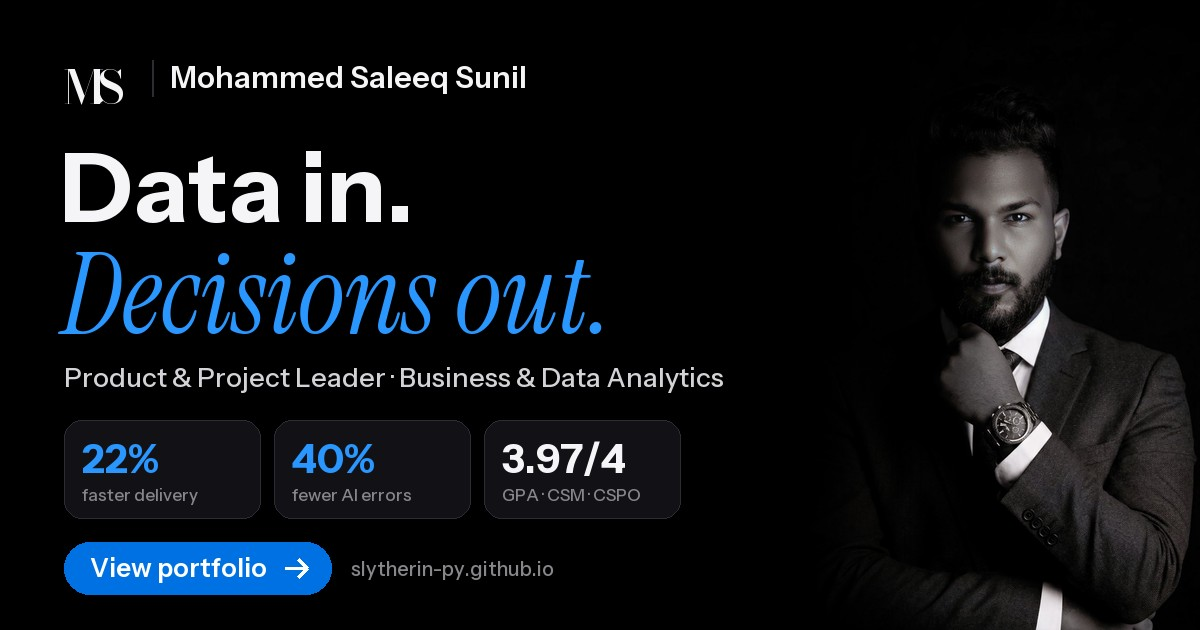
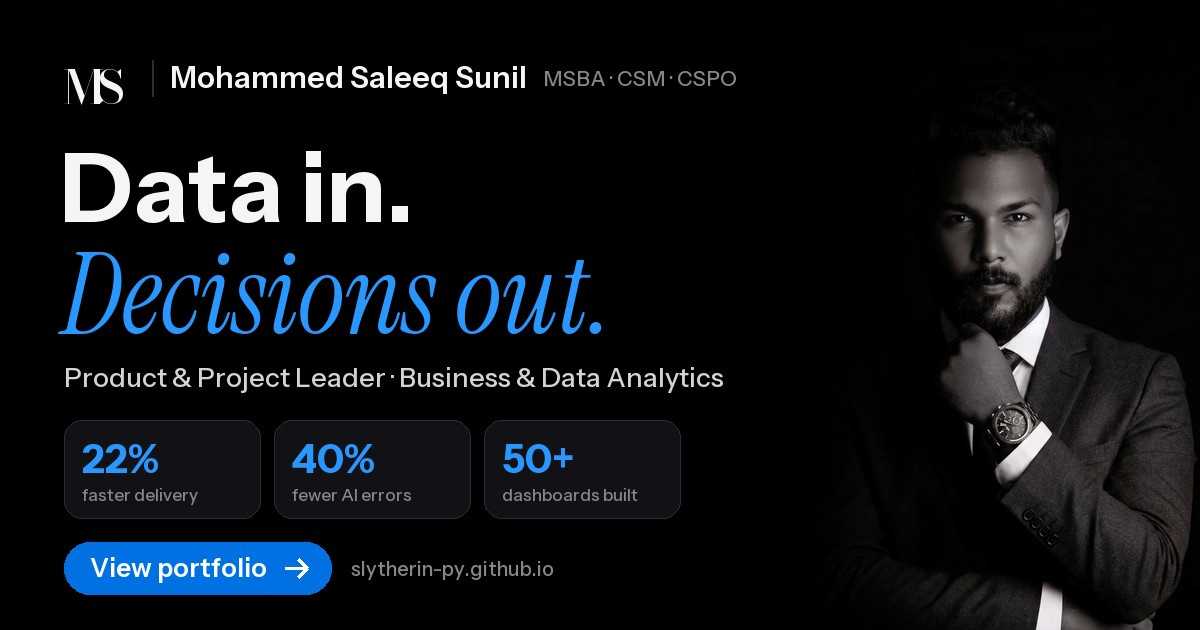
Share card: credentials beside the name, 50+ dashboards as the third figure

Changed region(s): [[0.4008, 0.6937, 0.5242, 0.8143], [0.4625, 0.0905, 0.6167, 0.1508]]

diff --git a/index.html b/index.html
@@ -13,12 +13,12 @@
   <meta property="og:site_name" content="Mohammed Saleeq Sunil">
   <meta property="og:title" content="Mohammed Saleeq Sunil · Product &amp; Project Leader · Business &amp; Data Analytics">
   <meta property="og:description" content="Product and project leader with business and data analytics expertise, turning complex portfolios into clear decisions. Open to Data Analyst, Senior BA, Product Owner and PM roles.">
-  <meta property="og:image" content="https://slytherin-py.github.io/assets/og.jpg?v=4">
+  <meta property="og:image" content="https://slytherin-py.github.io/assets/og.jpg?v=5">
   <meta property="og:image:width" content="1200">
   <meta property="og:image:height" content="630">
   <meta property="og:image:alt" content="Mohammed Saleeq Sunil: Data in. Decisions out. Product &amp; Project Leader, Business &amp; Data Analytics.">
   <meta name="twitter:card" content="summary_large_image">
-  <meta name="twitter:image" content="https://slytherin-py.github.io/assets/og.jpg?v=4">
+  <meta name="twitter:image" content="https://slytherin-py.github.io/assets/og.jpg?v=5">
   <link rel="icon" href="assets/favicon.svg?v=zr1" type="image/svg+xml">
   <link rel="preload" as="image" href="assets/portrait.webp?v=k1" type="image/webp">
   <link rel="preconnect" href="https://fonts.googleapis.com">

diff --git a/work/clinical-trials.html b/work/clinical-trials.html
@@ -12,7 +12,7 @@
   <meta property="og:site_name" content="Mohammed Saleeq Sunil">
   <meta property="og:title" content="Clinical Trial Portfolio · Mohammed Saleeq Sunil">
   <meta property="og:description" content="Do industry-sponsored cancer trials enroll more patients than academic ones?">
-  <meta property="og:image" content="https://slytherin-py.github.io/assets/og.jpg?v=4">
+  <meta property="og:image" content="https://slytherin-py.github.io/assets/og.jpg?v=5">
   <meta name="twitter:card" content="summary_large_image">
   <link rel="icon" href="../assets/favicon.svg?v=zr1" type="image/svg+xml">
   <link rel="preconnect" href="https://fonts.googleapis.com"><link rel="preconnect" href="https://fonts.gstatic.com" crossorigin>

diff --git a/work/portfolio-delivery.html b/work/portfolio-delivery.html
@@ -12,7 +12,7 @@
   <meta property="og:site_name" content="Mohammed Saleeq Sunil">
   <meta property="og:title" content="SaaS Portfolio Delivery · Mohammed Saleeq Sunil">
   <meta property="og:description" content="Running analytics and governance for 8 products across 3 continents.">
-  <meta property="og:image" content="https://slytherin-py.github.io/assets/og.jpg?v=4">
+  <meta property="og:image" content="https://slytherin-py.github.io/assets/og.jpg?v=5">
   <meta name="twitter:card" content="summary_large_image">
   <link rel="icon" href="../assets/favicon.svg?v=zr1" type="image/svg+xml">
   <link rel="preconnect" href="https://fonts.googleapis.com"><link rel="preconnect" href="https://fonts.gstatic.com" crossorigin>

diff --git a/work/flood-exhaust.html b/work/flood-exhaust.html
@@ -12,7 +12,7 @@
   <meta property="og:site_name" content="Mohammed Saleeq Sunil">
   <meta property="og:title" content="Flood-Resilient Ambulance Exhaust · Mohammed Saleeq Sunil">
   <meta property="og:description" content="Keeping emergency vehicles running when floodwater rises.">
-  <meta property="og:image" content="https://slytherin-py.github.io/assets/og.jpg?v=4">
+  <meta property="og:image" content="https://slytherin-py.github.io/assets/og.jpg?v=5">
   <meta name="twitter:card" content="summary_large_image">
   <link rel="icon" href="../assets/favicon.svg?v=zr1" type="image/svg+xml">
   <link rel="preconnect" href="https://fonts.googleapis.com"><link rel="preconnect" href="https://fonts.gstatic.com" crossorigin>

diff --git a/work/hub-network.html b/work/hub-network.html
@@ -12,7 +12,7 @@
   <meta property="og:site_name" content="Mohammed Saleeq Sunil">
   <meta property="og:title" content="Drone Hub Network · Mohammed Saleeq Sunil">
   <meta property="og:description" content="Where to build 7 hubs so the most people get a 15-minute delivery.">
-  <meta property="og:image" content="https://slytherin-py.github.io/assets/og.jpg?v=4">
+  <meta property="og:image" content="https://slytherin-py.github.io/assets/og.jpg?v=5">
   <meta name="twitter:card" content="summary_large_image">
   <link rel="icon" href="../assets/favicon.svg?v=zr1" type="image/svg+xml">
   <link rel="preconnect" href="https://fonts.googleapis.com"><link rel="preconnect" href="https://fonts.gstatic.com" crossorigin>

diff --git a/tools/make_og.py b/tools/make_og.py
@@ -52,6 +52,9 @@ d.text((PAD, 52), "M", font=mf, fill=WHITE)
 d.text((PAD + d.textlength("M", font=mf) - 7, 52), "S", font=mf, fill=WHITE)
 d.line([(PAD + 88, 60), (PAD + 88, 96)], fill=LINE, width=2)
 d.text((PAD + 106, 58), "Mohammed Saleeq Sunil", font=sans(30, 600), fill=WHITE)
+# credentials after the name, quieter, the way post-nominals are set
+nx = PAD + 106 + d.textlength("Mohammed Saleeq Sunil", font=sans(30, 600)) + 16
+d.text((nx, 65), "MSBA · CSM · CSPO", font=sans(21, 500), fill=MUTED)
 
 # Headline
 d.text((PAD - 4, 128), "Data in.", font=sans(96, 700), fill=WHITE)
@@ -59,12 +62,12 @@ d.text((PAD - 2, 222), "Decisions out.", font=ImageFont.truetype(os.path.join(FO
 d.text((PAD, 360), "Product & Project Leader · Business & Data Analytics", font=sans(27, 500), fill=SOFT)
 
 # Three proof figures, each in a quiet tile
-proof = [("22%", "faster delivery"), ("40%", "fewer AI errors"), ("3.97/4", "GPA · CSM · CSPO")]
+proof = [("22%", "faster delivery"), ("40%", "fewer AI errors"), ("50+", "dashboards built")]
 tx, ty, tw, th, gap = PAD, 420, 196, 98, 14
 for i, (num, label) in enumerate(proof):
     x = tx + i * (tw + gap)
     d.rounded_rectangle((x, ty, x + tw, ty + th), radius=18, fill=TILE, outline=LINE, width=1)
-    d.text((x + 18, ty + 14), num, font=sans(40, 700), fill=BLUE if i < 2 else WHITE)
+    d.text((x + 18, ty + 14), num, font=sans(40, 700), fill=BLUE)
     d.text((x + 18, ty + 64), label, font=sans(17, 500), fill=MUTED)
 
 # Call to action: the whole preview is the link, so the pill names what a click does

diff --git a/tools/build_cases.py b/tools/build_cases.py
@@ -257,7 +257,7 @@ def case_page(c, nxt):
   <meta property="og:site_name" content="Mohammed Saleeq Sunil">
   <meta property="og:title" content="{e(c["title"])} · Mohammed Saleeq Sunil">
   <meta property="og:description" content="{e(c["tagline"])}">
-  <meta property="og:image" content="{SITE}assets/{"work/" + hero["img"] + "-sm.jpg" if "img" in hero else "og.jpg?v=4"}">
+  <meta property="og:image" content="{SITE}assets/{"work/" + hero["img"] + "-sm.jpg" if "img" in hero else "og.jpg?v=5"}">
   <meta name="twitter:card" content="summary_large_image">
   <link rel="icon" href="{P}assets/favicon.svg?v=zr1" type="image/svg+xml">
   <link rel="preconnect" href="https://fonts.googleapis.com"><link rel="preconnect" href="https://fonts.gstatic.com" crossorigin>
